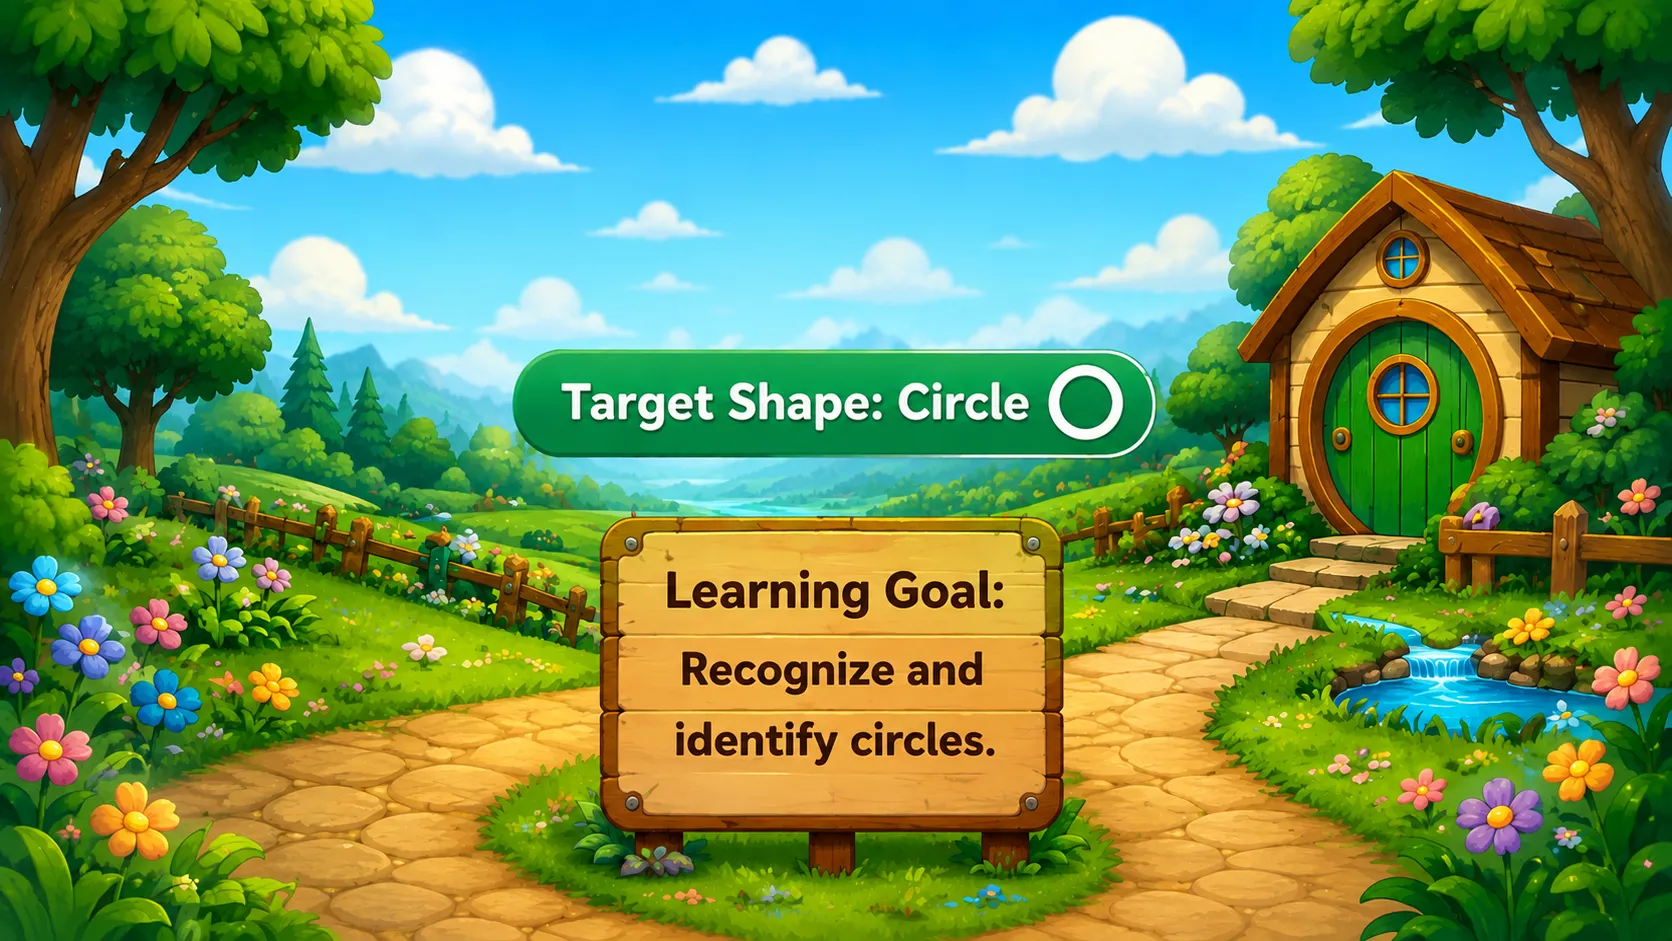
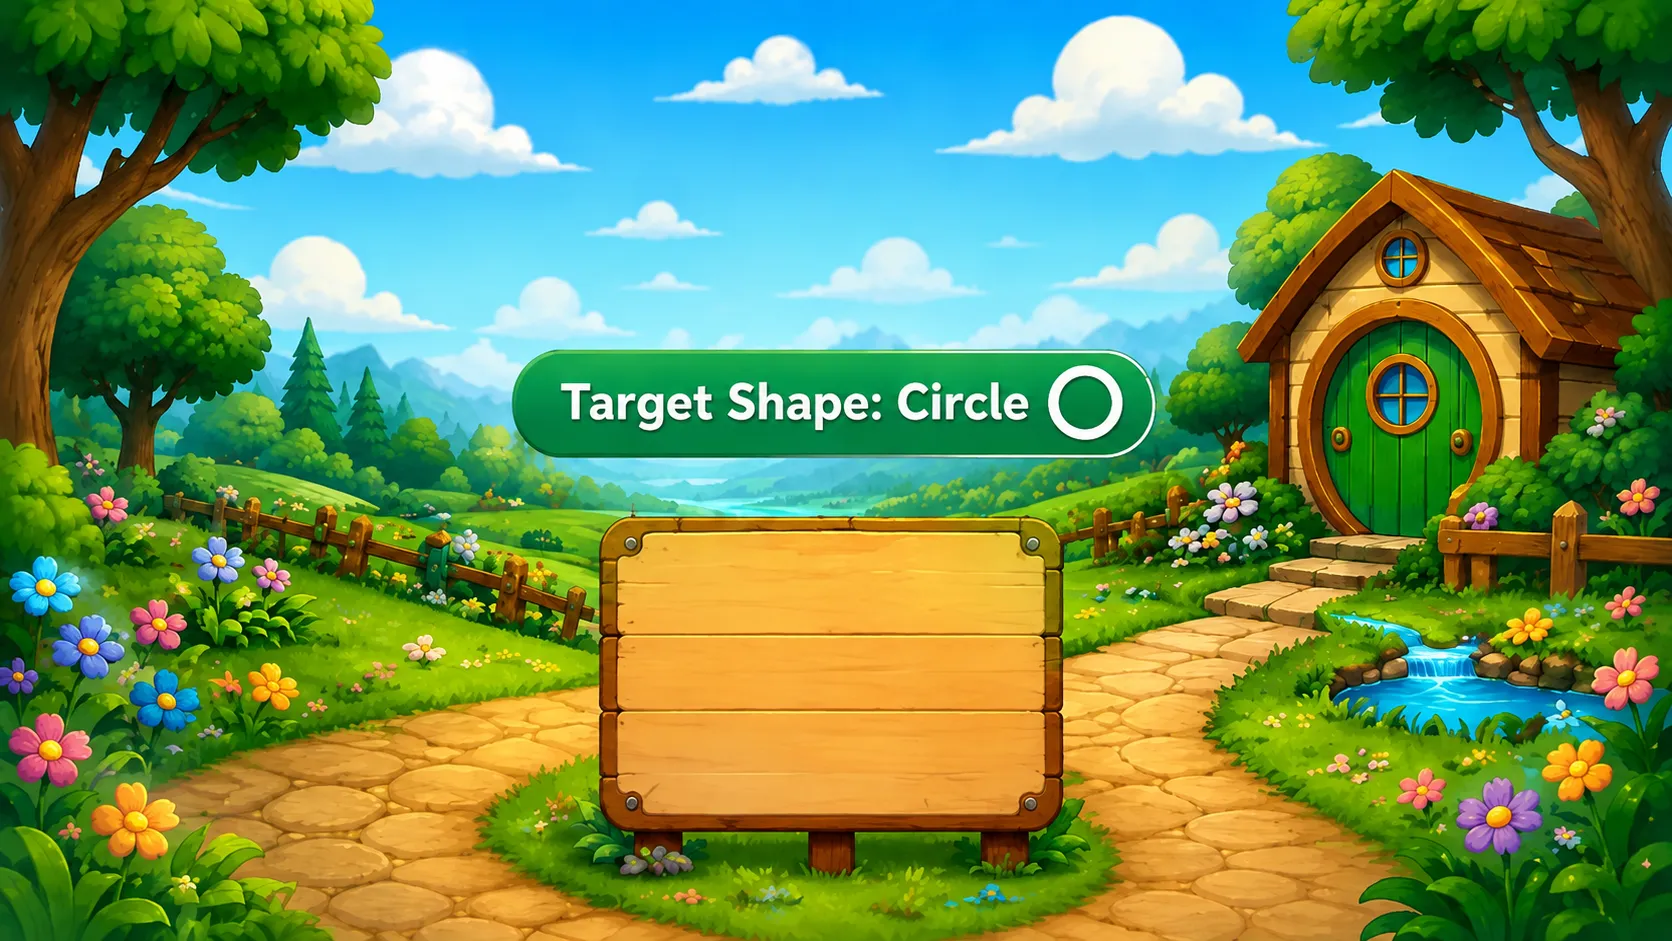
Updated

diff --git a/style.css b/style.css
@@ -506,6 +506,160 @@ body.is-page-loading .page-loading-overlay {
     object-fit: cover;
 }
 
+.circle-illustration-page {
+    position: fixed;
+    inset: 0;
+    width: 100vw;
+    height: 100vh;
+    height: 100svh;
+    overflow: hidden;
+    background: #d9f2a0;
+}
+
+.circle-illustration-bg {
+    position: absolute;
+    inset: 0;
+    z-index: 0;
+    display: block;
+    width: 100%;
+    height: 100%;
+    object-fit: cover;
+}
+
+.shape-area-learning-goal {
+    position: absolute;
+    left: 50%;
+    top: 50%;
+    z-index: 2;
+    width: max(100vw, calc(100svh * 1.776833));
+    height: max(100svh, calc(100vw / 1.776833));
+    color: #3f210d;
+    font-family: 'Fredoka', sans-serif;
+    text-align: center;
+    transform: translate(-50%, -50%);
+    text-shadow:
+        0 0.08rem 0 #ffe29a,
+        0 0.16rem 0.12rem rgba(90, 45, 12, 0.28);
+    pointer-events: none;
+}
+
+.shape-area-learning-goal > span {
+    position: absolute;
+    left: 50%;
+    display: block;
+    width: 28%;
+    transform: translate(-50%, -50%) rotate(-0.4deg);
+    transition: opacity 0.3s ease, visibility 0.3s ease;
+}
+
+.shape-area-learning-goal-heading {
+    top: 61.8%;
+    font-size: clamp(1.55rem, 2.75vw, 2.75rem);
+    font-weight: 800;
+    letter-spacing: 0.02em;
+}
+
+.shape-area-learning-goal-line-one,
+.shape-area-learning-goal-line-two {
+    font-size: clamp(1.45rem, 2.45vw, 2.45rem);
+    font-weight: 800;
+    line-height: 1;
+}
+
+.shape-area-learning-goal-line-one {
+    top: 71.5%;
+}
+
+.shape-area-learning-goal-line-two {
+    top: 80.8%;
+}
+
+.shape-area-learning-goal.is-start-ready > span {
+    opacity: 0;
+    visibility: hidden;
+}
+
+.shape-area-start-button {
+    position: absolute;
+    left: 50%;
+    top: 71.5%;
+    min-width: clamp(8rem, 14vw, 14rem);
+    padding: clamp(0.65rem, 1.1vw, 1rem) clamp(1.5rem, 3vw, 3rem);
+    border: clamp(0.16rem, 0.28vw, 0.28rem) solid #6f3b16;
+    border-radius: 999px;
+    background: linear-gradient(180deg, #fff879 0%, #ffd34f 52%, #f0a92f 100%);
+    color: #4a260e;
+    font: 800 clamp(1.4rem, 2.7vw, 2.7rem) 'Fredoka', sans-serif;
+    line-height: 1;
+    text-transform: uppercase;
+    text-shadow: 0 0.1rem 0 #fff4b1;
+    box-shadow:
+        0 0.35rem 0 #9a591f,
+        0 0.7rem 1.1rem rgba(70, 35, 8, 0.28);
+    opacity: 0;
+    visibility: hidden;
+    pointer-events: none;
+    cursor: pointer;
+    transform: translate(-50%, -50%) scale(0.72);
+    transition:
+        transform 0.18s ease,
+        filter 0.18s ease,
+        background 0.18s ease,
+        box-shadow 0.18s ease;
+}
+
+.shape-area-learning-goal.is-start-ready .shape-area-start-button {
+    visibility: visible;
+    pointer-events: auto;
+    animation: shapeAreaStartButtonIn 0.55s cubic-bezier(0.2, 1.18, 0.35, 1) forwards,
+        shapeAreaStartButtonPulse 1.25s ease-in-out 0.55s infinite;
+}
+
+.shape-area-learning-goal.is-start-ready .shape-area-start-button:hover {
+    animation: none;
+    opacity: 1;
+    background: linear-gradient(180deg, #fffca0 0%, #ffe35d 52%, #f7ba3d 100%);
+    filter: brightness(1.08) saturate(1.08);
+    box-shadow:
+        0 0.48rem 0 #8b4a18,
+        0 0.95rem 1.4rem rgba(70, 35, 8, 0.34),
+        0 0 0 0.32rem rgba(255, 244, 95, 0.3);
+    transform: translate(-50%, -56%) scale(1.08);
+}
+
+.shape-area-learning-goal.is-start-ready .shape-area-start-button:active {
+    animation: none;
+    opacity: 1;
+    filter: brightness(0.98) saturate(1.04);
+    box-shadow:
+        0 0.12rem 0 #8b4a18,
+        0 0.35rem 0.65rem rgba(70, 35, 8, 0.24),
+        0 0 0 0.18rem rgba(255, 244, 95, 0.22);
+    transform: translate(-50%, -47%) scale(0.96);
+}
+
+@keyframes shapeAreaStartButtonIn {
+    from {
+        opacity: 0;
+        transform: translate(-50%, -50%) scale(0.72);
+    }
+
+    to {
+        opacity: 1;
+        transform: translate(-50%, -50%) scale(1);
+    }
+}
+
+@keyframes shapeAreaStartButtonPulse {
+    0%, 100% {
+        transform: translate(-50%, -50%) scale(1);
+    }
+
+    50% {
+        transform: translate(-50%, -54%) scale(1.04);
+    }
+}
+
 .shape-area-character {
     position: absolute;
     left: clamp(-1.7rem, -1.3vw, 0rem);
@@ -616,7 +770,7 @@ body.is-fullscreen-mode .shape-area-character-speaker {
         0 0.45rem 0 rgba(122, 74, 42, 0.2),
         0 0.9rem 1.2rem rgba(34, 20, 4, 0.14);
     pointer-events: none;
-    overflow: hidden;
+    overflow: visible;
     opacity: 0;
     transform: translateY(0.6rem) scale(0.98);
     transition: opacity 0.45s ease, transform 0.45s ease;
@@ -681,6 +835,13 @@ body.is-fullscreen-mode .shape-area-speech-bubble-ch3 {
     transform: translateY(0.7rem) scale(0.96);
 }
 
+.shape-area-speech-bubble:not(.shape-area-speech-bubble-ch3),
+.shape-area-speech-bubble:not(.shape-area-speech-bubble-ch3).is-visible,
+.shape-area-speech-bubble:not(.shape-area-speech-bubble-ch3).is-fading {
+    transform: none;
+    transition-property: opacity;
+}
+
 .shape-area-speech-bubble-text {
     display: inline-block;
     white-space: pre-wrap;
@@ -709,18 +870,33 @@ body.is-fullscreen-mode .shape-area-speech-bubble-ch3 {
     }
 }
 
+.shape-area-speech-bubble::before,
 .shape-area-speech-bubble::after {
     content: '';
     position: absolute;
-    left: 18%;
+    left: clamp(2rem, 3vw, 2.8rem);
+    width: 0;
+    height: 0;
+    transform: translateX(-50%);
+}
+
+.shape-area-speech-bubble-ch3::before,
+.shape-area-speech-bubble-ch3::after {
+    left: 50%;
+}
+
+.shape-area-speech-bubble::before {
+    bottom: -1.08rem;
+    border-left: 0.9rem solid transparent;
+    border-right: 0.9rem solid transparent;
+    border-top: 1.08rem solid #7a4a2a;
+}
+
+.shape-area-speech-bubble::after {
     bottom: -0.72rem;
-    width: 1.2rem;
-    height: 1.2rem;
-    background: linear-gradient(225deg, #ffe8a5 0 50%, transparent 50% 100%);
-    border-right: 0.18rem solid #7a4a2a;
-    border-bottom: 0.18rem solid #7a4a2a;
-    transform: rotate(45deg);
-    border-bottom-right-radius: 0.18rem;
+    border-left: 0.66rem solid transparent;
+    border-right: 0.66rem solid transparent;
+    border-top: 0.8rem solid #ffe8a5;
 }
 
 .shape-area-title {

diff --git a/index.html b/index.html
@@ -11,7 +11,7 @@
     <link rel="manifest" href="manifest.webmanifest">
     <link rel="apple-touch-icon" href="assets/Character/ch1.png">
     <link href="https://fonts.googleapis.com/css2?family=Fredoka:wght@400;600;700&family=Nunito:wght@400;600;800&display=swap" rel="stylesheet">
-    <link rel="stylesheet" href="style.css?v=20260818-23">
+    <link rel="stylesheet" href="style.css?v=20260818-45">
 </head>
 <body class="title-page">
     <div id="app-shell-container" class="app-shell-container">
@@ -321,6 +321,12 @@
         <img class="shape-area-character shape-area-character-speaker shape-area-character-ch3" src="assets/Character/ch3.webp" alt="" aria-hidden="true" hidden>
         <img class="shape-area-character shape-area-character-speaker shape-area-character-ch4" src="assets/Character/ch4.webp" alt="" aria-hidden="true" hidden>
         <img class="shape-area-character shape-area-character-speaker shape-area-character-ch5" src="assets/Character/ch5.webp" alt="" aria-hidden="true" hidden>
+        <div class="shape-area-learning-goal">
+            <span class="shape-area-learning-goal-heading">Learning Goal:</span>
+            <span class="shape-area-learning-goal-line-one">Recognize and identify</span>
+            <span class="shape-area-learning-goal-line-two">Circles</span>
+            <button class="shape-area-start-button loading-link" type="button" data-route="circle-illustration">Start</button>
+        </div>
         <div class="shape-area-speech-bubble" data-message="Hello! Kumusta ka, Kaibigan?" aria-hidden="true">
             <span class="shape-area-speech-bubble-text"></span>
         </div>
@@ -329,6 +335,14 @@
         </div>
         <img class="shape-area-title" src="assets/Shape UI/Title1.webp" alt="Area 1: Circle Meadow">
         <a class="game-return-btn loading-link" href="index.html" data-route="game3" aria-label="Return to Shape Island">
+            <span>‹</span>
+            Back
+        </a>
+    </section>
+
+    <section id="learnscape-circle-illustration-page" class="circle-illustration-page" hidden>
+        <img class="circle-illustration-bg" src="assets/Backgrounds/Illustartion.webp" alt="Circle lesson illustration board">
+        <a class="game-return-btn loading-link" href="index.html" data-route="shape-circle" aria-label="Return to Circle Area">
             <span>‹</span>
             Back
         </a>
@@ -508,7 +522,7 @@
         </a>
     </section>
 
-    <script src="script.js?v=20260818-17"></script>
+    <script src="script.js?v=20260818-43"></script>
     </div>
 
     <script>
@@ -544,6 +558,12 @@
                     pageId: 'learnscape-shape-circle-page',
                     hash: '#shape-circle',
                 },
+                circleIllustration: {
+                    title: 'Learnscape Adventure - Circle Lesson',
+                    bodyClass: 'gameplay-page',
+                    pageId: 'learnscape-circle-illustration-page',
+                    hash: '#circle-illustration',
+                },
                 lettertrace: {
                     title: 'Learnscape Adventure - Trace The Letter',
                     bodyClass: 'gameplay-page',
@@ -578,6 +598,8 @@
                 game3: 'game3',
                 shapeCircle: 'shapeCircle',
                 'shape-circle': 'shapeCircle',
+                circleIllustration: 'circleIllustration',
+                'circle-illustration': 'circleIllustration',
                 lettertrace: 'lettertrace',
                 dragtomatch: 'dragtomatch',
                 poptheword: 'poptheword',
@@ -587,6 +609,7 @@
                 '#game1': 'game1',
                 '#game3': 'game3',
                 '#shape-circle': 'shapeCircle',
+                '#circle-illustration': 'circleIllustration',
                 '#lettertrace': 'lettertrace',
                 '#dragtomatch': 'dragtomatch',
                 '#poptheword': 'poptheword',
@@ -597,6 +620,7 @@
                 'game1.html': 'game1',
                 'game3.html': 'game3',
                 'shape-circle.html': 'shapeCircle',
+                'circle-illustration.html': 'circleIllustration',
                 'lettertrace.html': 'lettertrace',
                 'dragtomatch.html': 'dragtomatch',
                 'poptheword.html': 'poptheword',
@@ -643,6 +667,7 @@
                 game1: document.getElementById('learnscape-game1-page'),
                 game3: document.getElementById('learnscape-game3-page'),
                 shapeCircle: document.getElementById('learnscape-shape-circle-page'),
+                circleIllustration: document.getElementById('learnscape-circle-illustration-page'),
                 lettertrace: document.getElementById('learnscape-lettertrace-page'),
                 dragtomatch: document.getElementById('learnscape-dragtomatch-page'),
                 poptheword: document.getElementById('learnscape-poptheword-page'),

diff --git a/script.js b/script.js
@@ -3,7 +3,7 @@
 document.addEventListener('DOMContentLoaded', async () => {
     console.log('Learnscape Adventure loaded!');
 
-    const appVersion = '20260818-17';
+    const appVersion = '20260818-43';
     const appVersionKey = 'learnscape-app-version';
     const freshParamKey = 'fresh';
 
@@ -97,6 +97,7 @@ document.addEventListener('DOMContentLoaded', async () => {
     const shapeCircleCharacter4 = shapeCirclePage?.querySelector('.shape-area-character-ch4') || null;
     const shapeCircleCharacter5 = shapeCirclePage?.querySelector('.shape-area-character-ch5') || null;
     const shapeCircleSpeakerCharacters = [shapeCircleCharacter3, shapeCircleCharacter4, shapeCircleCharacter5];
+    const shapeCircleLearningGoal = shapeCirclePage?.querySelector('.shape-area-learning-goal') || null;
     const shapeCircleBubble = shapeCirclePage?.querySelector('.shape-area-speech-bubble') || null;
     const shapeCircleBubbleText = shapeCircleBubble?.querySelector('.shape-area-speech-bubble-text') || null;
     const shapeCircleBubbleCh3 = shapeCirclePage?.querySelector('.shape-area-speech-bubble-ch3') || null;
@@ -180,6 +181,10 @@ document.addEventListener('DOMContentLoaded', async () => {
             shapeCircleBubbleCh3.classList.remove('is-visible', 'is-fading', 'is-triggering');
         }
 
+        if (shapeCircleLearningGoal) {
+            shapeCircleLearningGoal.classList.remove('is-start-ready');
+        }
+
         if (shapeCircleCharacter) {
             shapeCircleCharacter.hidden = false;
             shapeCircleCharacter.classList.remove('is-fading', 'is-sliding-left');
@@ -235,6 +240,7 @@ document.addEventListener('DOMContentLoaded', async () => {
 
                 const currentMessage = String(shapeCircleBubbleCh3Messages[messageIndex] || '');
                 const isLastCh3Message = messageIndex === shapeCircleBubbleCh3Messages.length - 1;
+                shapeCircleLearningGoal?.classList.toggle('is-start-ready', isLastCh3Message);
                 const pauseAfterTyping = isLastCh3Message
                     ? shapeCircleCh3FinalPauseAfterTyping
                     : shapeCircleCh3PauseAfterTyping;

diff --git a/sw.js b/sw.js
@@ -1,4 +1,4 @@
-const CACHE_NAME = 'learnscape-adventure-v42';
+const CACHE_NAME = 'learnscape-adventure-v64';
 const CORE_ASSETS = [
   './',
   './index.html',
